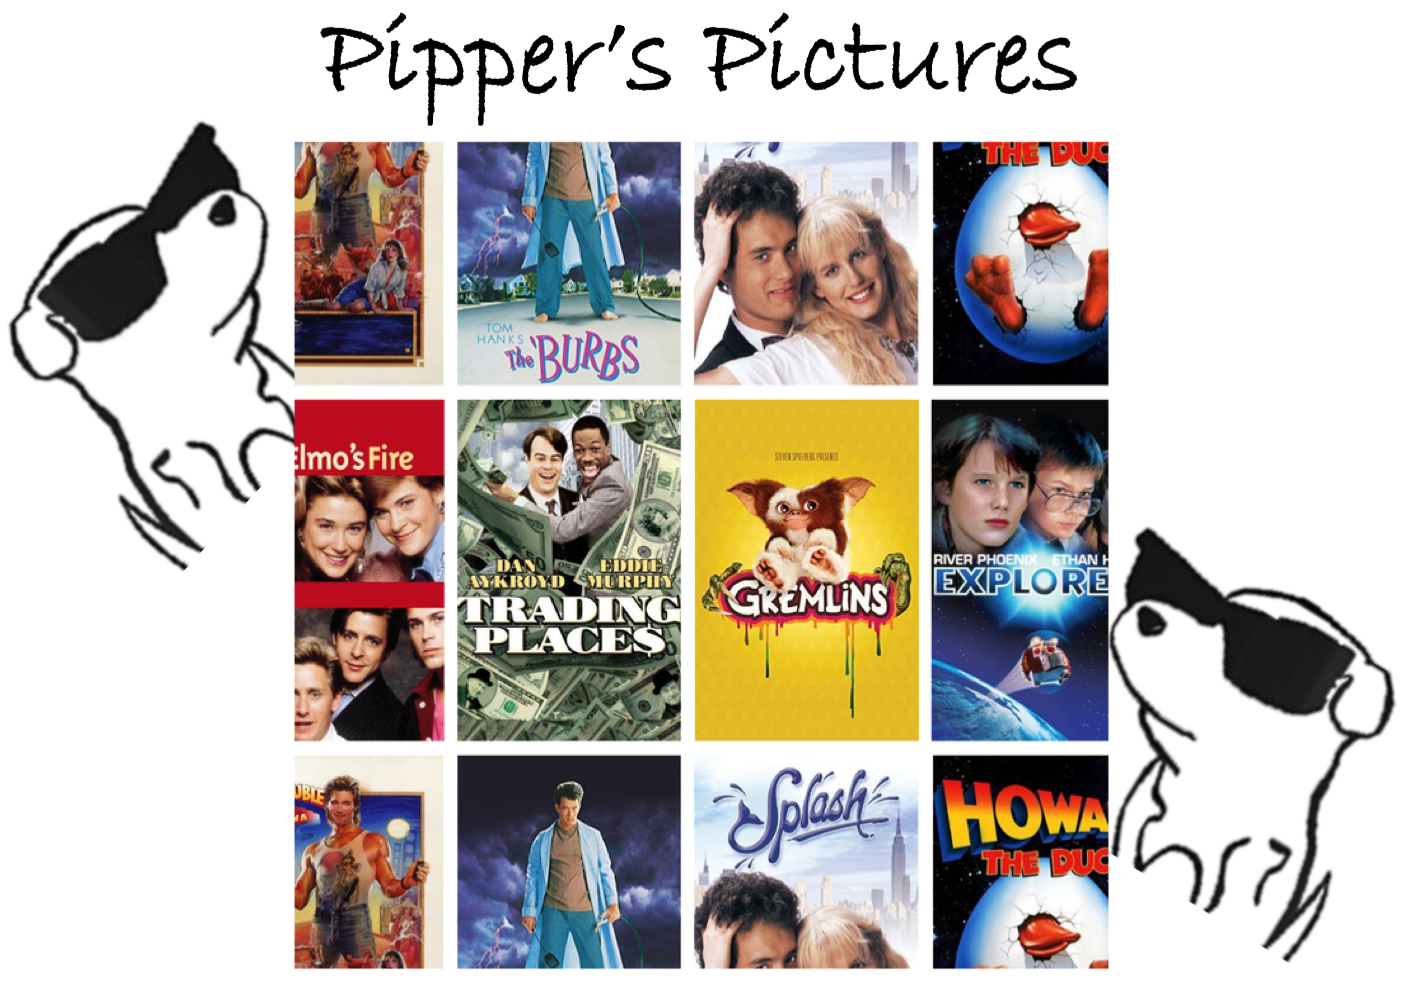
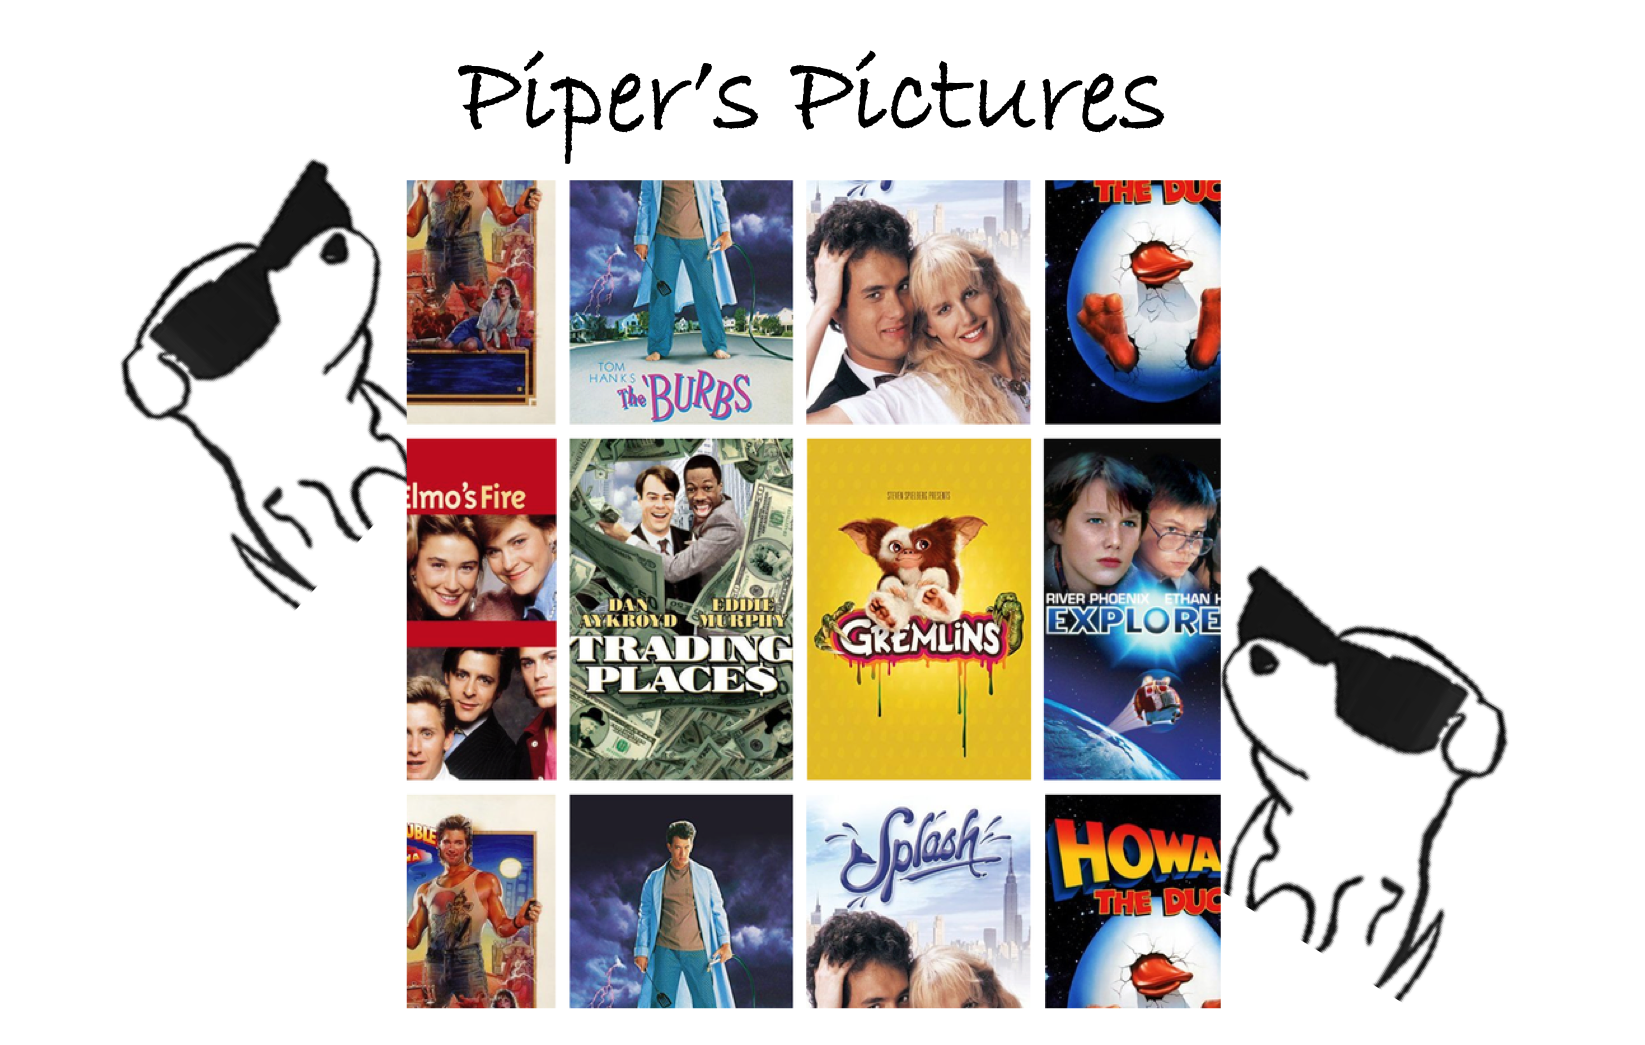
small merge fixes

diff --git a/src/App.css b/src/App.css
@@ -92,7 +92,7 @@ h1 {
   to{width: 500px;}
 }
 
-/* cursor animations */
+/* cursor animations */    TODO - This broke on merge
 
 @keyframes animated-cursor{
   from{border-right-color:black;}
@@ -100,8 +100,10 @@ h1 {
 .selected_wording{
   font-family: nunito;
   color: #413542;
-  /* padding: 10px 0px 0px 10px; */
 }
+}
+  /* padding: 10px 0px 0px 10px; */
+
 
 .checkout{
   margin-bottom: .5em;

diff --git a/src/App.js b/src/App.js
@@ -57,7 +57,7 @@ const App = (props) => {
   return (
     <section>
       <header className="header">
-        <h1 class="text_1">Uncle  Salmon  Rental  store</h1>
+        <h1 class="text_1">Piper's Pictures</h1>
       </header>
       <span className="top">
         <span className="container">

diff --git a/src/components/Search.css b/src/components/Search.css
@@ -45,7 +45,7 @@ input, button
     right: 0;
     width: 500px;
     padding: 35px;
-    margin: -1px auto 0 auto;  /*was -83*/
+    margin: 45px auto 0 auto;  /*was -83*/
     background-color: #ff7575;
     border-radius: 20px;
     box-shadow: 0 10px 40px #ff7c7c, 0 0 0 20px #ffffffeb;
